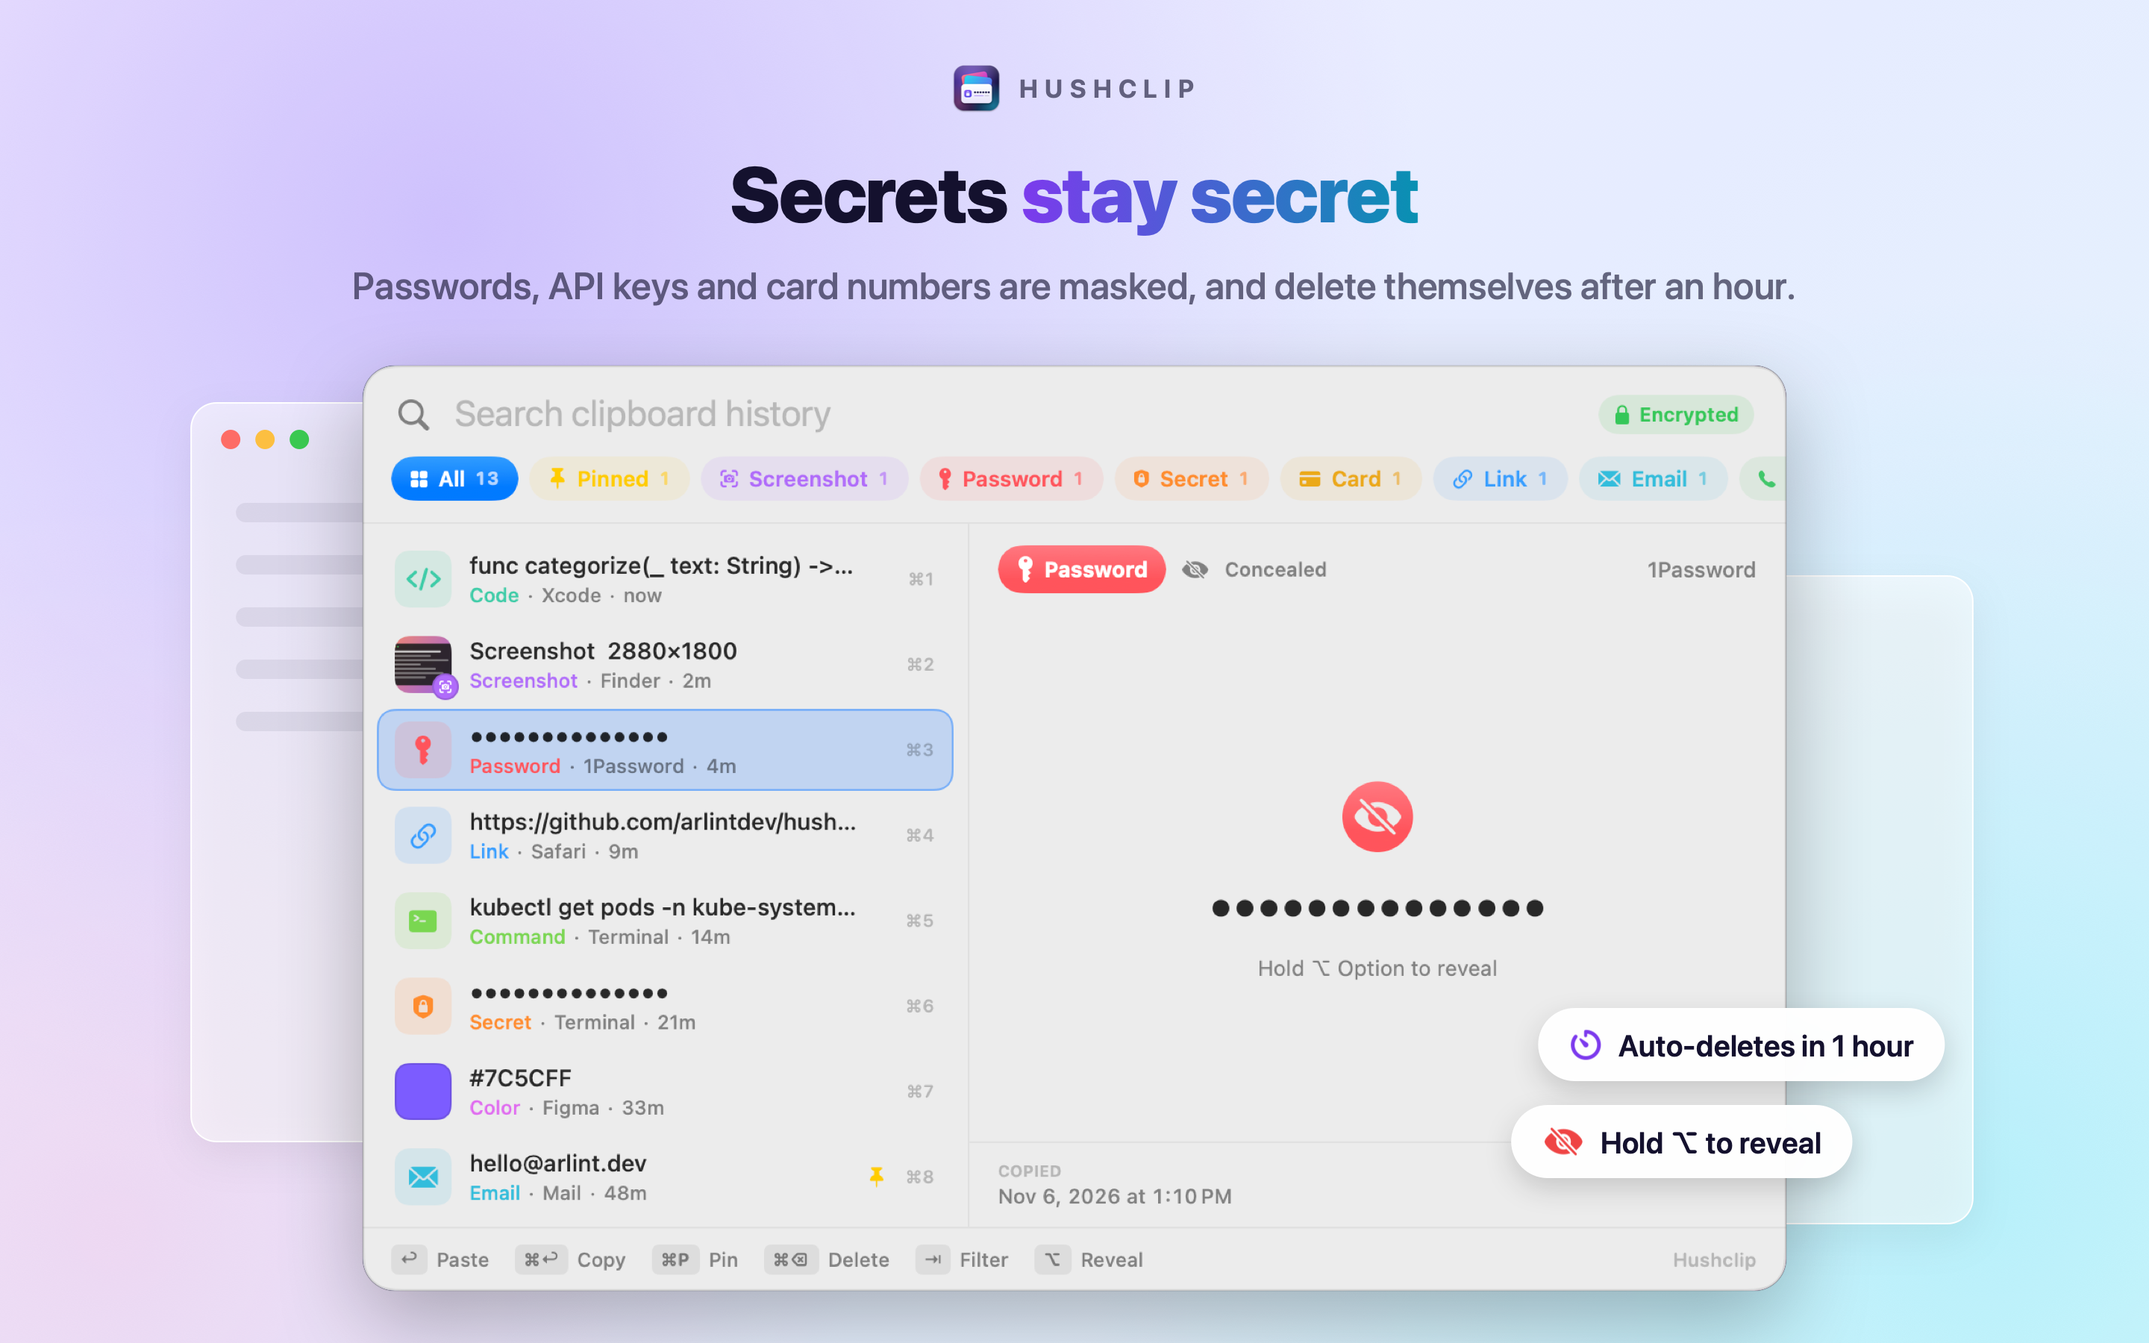
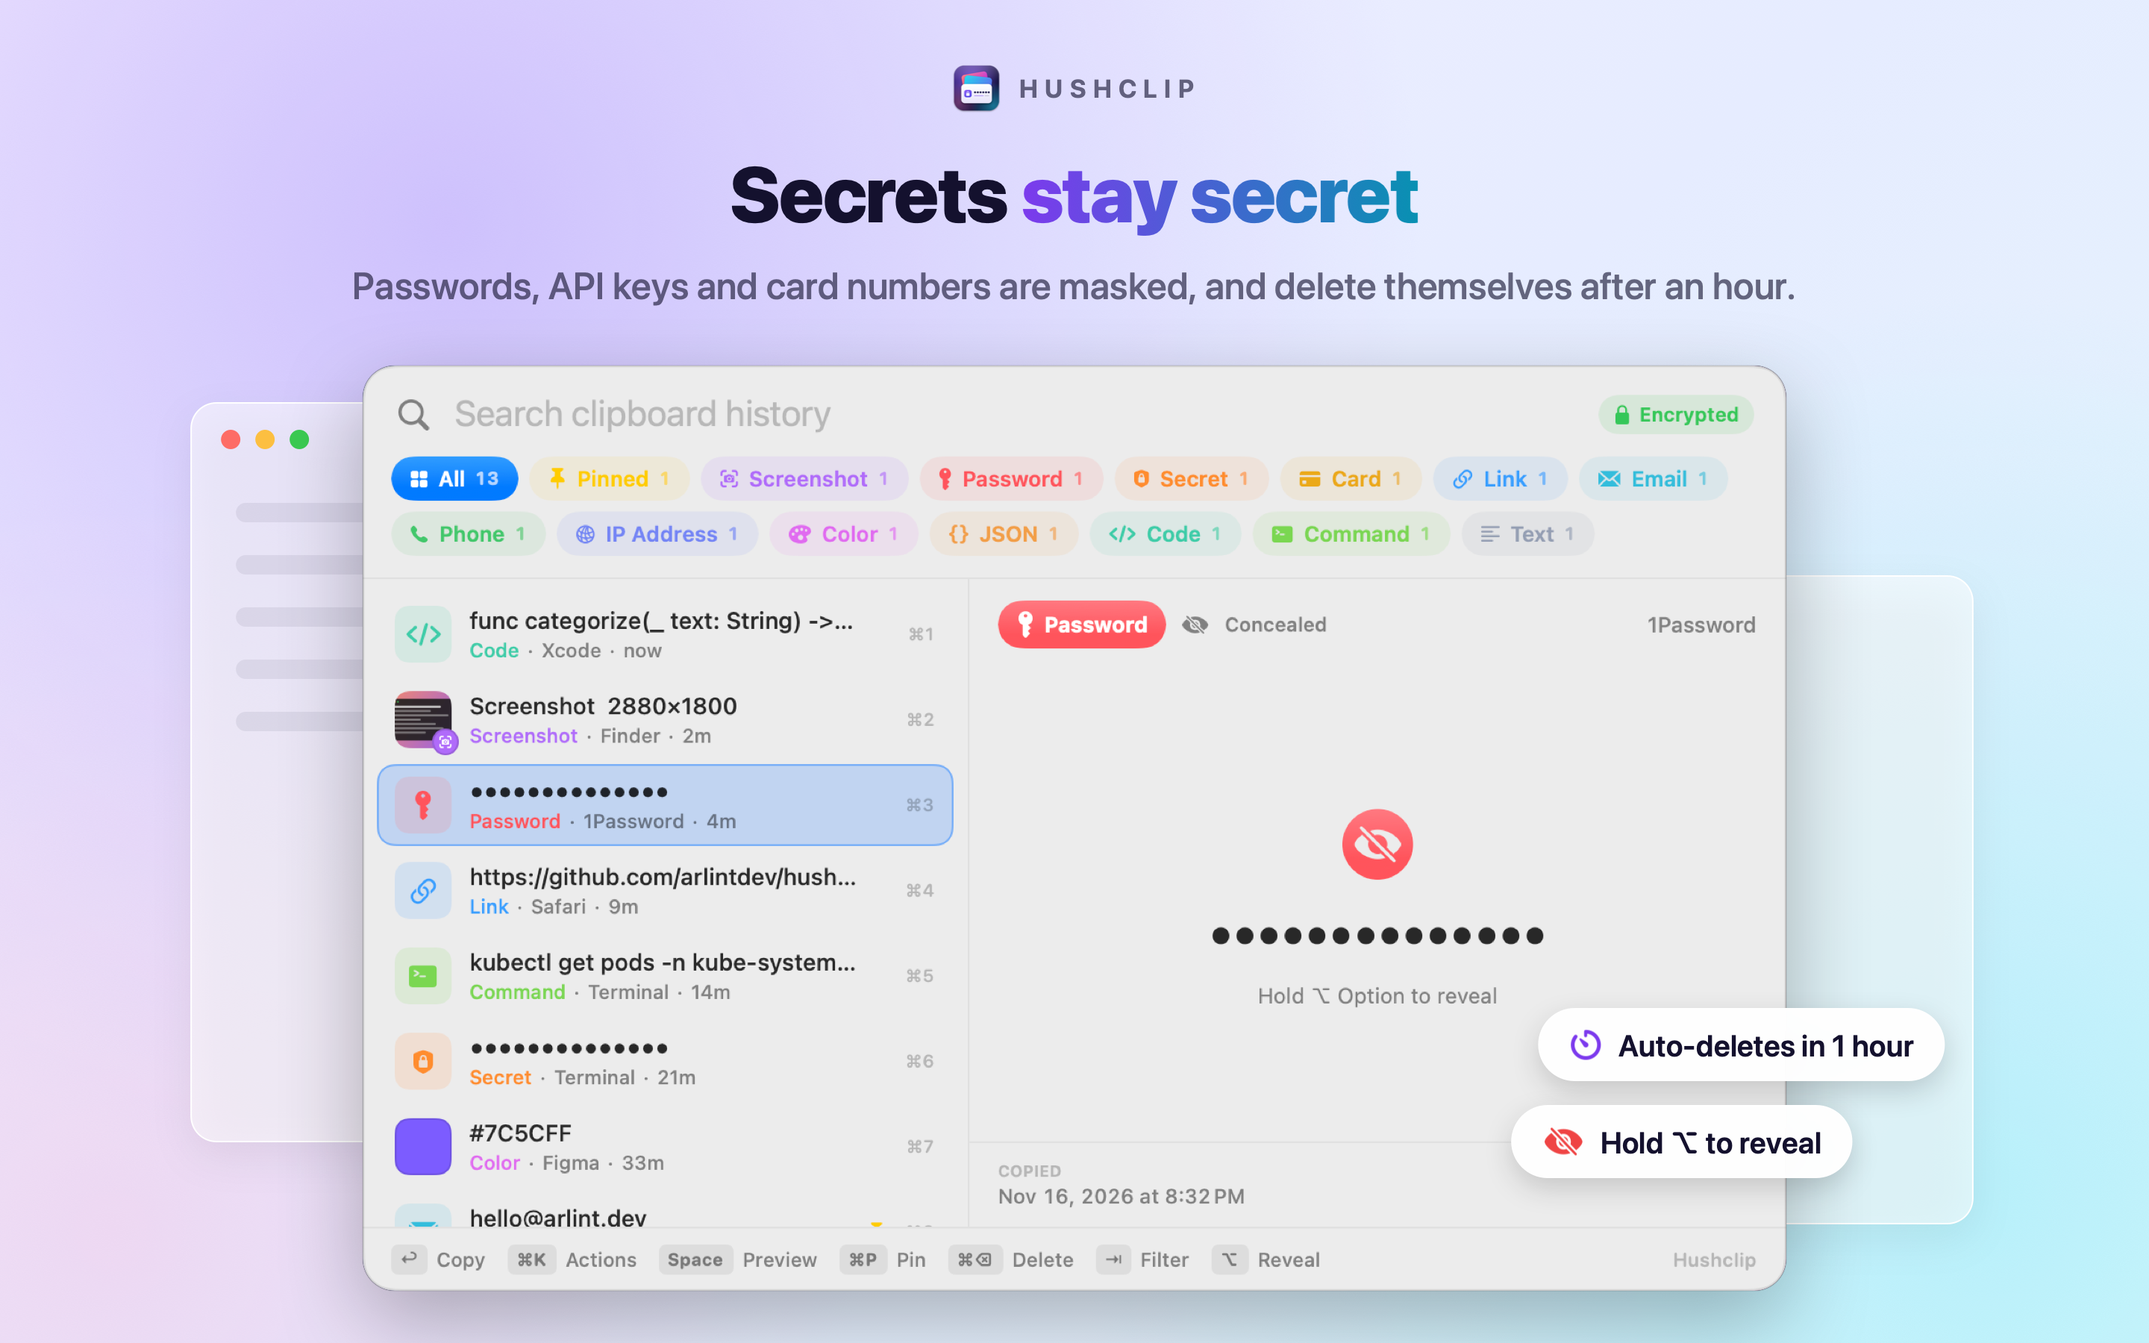
App Store build: copy instead of auto-paste (guideline 2.4.5)
App Review rejected 1.1.0 because posting ⌘V needs the Accessibility
permission, which is only allowed for accessibility features. The App
Store build (APPSTORE compilation condition in project.yml) no longer
compiles the event-posting code: choosing an item copies it and a
"Copied · Press ⌘V to paste" toast confirms it. Labels switch from
Paste to Copy. The direct-download build keeps auto-paste.

Also regenerates the store screenshots and updates the listing and
review notes to match.

diff --git a/Sources/Hushclip/OverlayView.swift b/Sources/Hushclip/OverlayView.swift
@@ -164,8 +164,10 @@ struct OverlayView: View {
 
     private var footer: some View {
         HStack(spacing: 12) {
-            KeyHint(keys: "↩", label: "Paste")
-            KeyHint(keys: "⌘↩", label: "Copy")
+            KeyHint(keys: "↩", label: Paster.verb)
+            if Paster.verb == "Paste" {
+                KeyHint(keys: "⌘↩", label: "Copy")
+            }
             KeyHint(keys: "⌘K", label: "Actions")
             KeyHint(keys: "Space", label: "Preview")
             KeyHint(keys: "⌘P", label: "Pin")
@@ -173,7 +175,7 @@ struct OverlayView: View {
             KeyHint(keys: "⇥", label: "Filter")
             KeyHint(keys: "⌥", label: "Reveal")
             Spacer()
-            if !model.accessibilityTrusted && Prefs.autoPaste {
+            if Paster.canAutoPaste && !model.accessibilityTrusted && Prefs.autoPaste {
                 Button {
                     Paster.openAccessibilitySettings()
                 } label: {
@@ -297,7 +299,9 @@ struct ItemListView: View {
                             .onTapGesture(count: 2) { model.perform(item, .paste) }
                             .simultaneousGesture(TapGesture().onEnded { model.selectedID = item.id })
                             .contextMenu {
-                                Button("Paste") { model.perform(item, .paste) }
+                                if Paster.verb == "Paste" {
+                                    Button("Paste") { model.perform(item, .paste) }
+                                }
                                 Button("Copy") { model.perform(item, .copy) }
                                 let actions = model.actions(for: item)
                                 if !actions.isEmpty {
@@ -306,7 +310,7 @@ struct ItemListView: View {
                                         Button {
                                             model.runAction(item, action)
                                         } label: {
-                                            Label(action.title, systemImage: action.symbol)
+                                            Label(action.displayTitle, systemImage: action.symbol)
                                         }
                                     }
                                     Divider()
@@ -650,7 +654,7 @@ struct ActionButton: View {
         Button(action: run) {
             HStack(spacing: 5) {
                 Image(systemName: action.symbol).font(.system(size: 10.5, weight: .bold))
-                Text(action.shortTitle).font(.system(size: 12, weight: .semibold))
+                Text(action.displayShortTitle).font(.system(size: 12, weight: .semibold))
                 if primary {
                     Text("⌘O")
                         .font(.system(size: 9.5, weight: .bold, design: .rounded))
@@ -671,7 +675,7 @@ struct ActionButton: View {
         }
         .buttonStyle(.plain)
         .onHover { hovering = $0 }
-        .help(action.detail.map { "\(action.title)\n\($0)" } ?? action.title)
+        .help(action.detail.map { "\(action.displayTitle)\n\($0)" } ?? action.displayTitle)
     }
 }
 
@@ -737,7 +741,7 @@ struct MetadataView: View {
             case .files:
                 entry("Files", "\(item.filePaths?.count ?? 0)")
             }
-            if item.useCount > 0 { entry("Pasted", "\(item.useCount)×") }
+            if item.useCount > 0 { entry("Used", "\(item.useCount)×") }
             Spacer()
         }
         .padding(.horizontal, 16)

diff --git a/Sources/Hushclip/Toast.swift b/Sources/Hushclip/Toast.swift
@@ -1,0 +1,82 @@
+import AppKit
+import SwiftUI
+
+/// A small HUD that confirms a copy ("Copied · press ⌘V to paste") and fades away.
+/// Shown when Hushclip copies instead of pasting: always in the Mac App Store build,
+/// and in the direct build when auto-paste is off or not yet allowed.
+@MainActor
+enum Toast {
+    private static var panel: NSPanel?
+    private static var hideWork: DispatchWorkItem?
+
+    static func copied(hint: Bool = true) {
+        show(title: "Copied", detail: hint ? "Press ⌘V to paste" : nil)
+    }
+
+    static func show(title: String, detail: String?) {
+        let panel = self.panel ?? makePanel()
+        self.panel = panel
+        let hosting = NSHostingView(rootView: ToastView(title: title, detail: detail))
+        let size = hosting.fittingSize
+        panel.contentView = hosting
+
+        let mouse = NSEvent.mouseLocation
+        let screen = NSScreen.screens.first { NSMouseInRect(mouse, $0.frame, false) } ?? NSScreen.main
+        if let frame = screen?.visibleFrame {
+            panel.setFrame(NSRect(x: frame.midX - size.width / 2, y: frame.minY + frame.height * 0.16,
+                                  width: size.width, height: size.height), display: false)
+        }
+        panel.alphaValue = 1
+        panel.orderFrontRegardless()
+
+        hideWork?.cancel()
+        let work = DispatchWorkItem {
+            NSAnimationContext.runAnimationGroup({ context in
+                context.duration = 0.35
+                panel.animator().alphaValue = 0
+            }, completionHandler: {
+                MainActor.assumeIsolated { if panel.alphaValue == 0 { panel.orderOut(nil) } }
+            })
+        }
+        hideWork = work
+        DispatchQueue.main.asyncAfter(deadline: .now() + 1.4, execute: work)
+    }
+
+    private static func makePanel() -> NSPanel {
+        let panel = NSPanel(contentRect: .zero, styleMask: [.nonactivatingPanel, .borderless],
+                            backing: .buffered, defer: true)
+        panel.level = .statusBar
+        panel.collectionBehavior = [.canJoinAllSpaces, .fullScreenAuxiliary, .transient, .ignoresCycle]
+        panel.isOpaque = false
+        panel.backgroundColor = .clear
+        panel.hasShadow = false
+        panel.ignoresMouseEvents = true
+        panel.hidesOnDeactivate = false
+        panel.isReleasedWhenClosed = false
+        return panel
+    }
+}
+
+private struct ToastView: View {
+    let title: String
+    let detail: String?
+
+    var body: some View {
+        HStack(spacing: 10) {
+            Image(systemName: "checkmark.circle.fill")
+                .font(.system(size: 18, weight: .semibold))
+                .foregroundStyle(.green)
+            Text(title).font(.system(size: 14, weight: .semibold))
+            if let detail {
+                Text(detail).font(.system(size: 13, weight: .medium)).foregroundStyle(.secondary)
+            }
+        }
+        .padding(.horizontal, 18)
+        .padding(.vertical, 11)
+        .background(.regularMaterial, in: Capsule())
+        .overlay(Capsule().strokeBorder(Color.primary.opacity(0.1)))
+        .shadow(color: .black.opacity(0.25), radius: 14, y: 6)
+        .padding(20) // room for the shadow
+        .fixedSize()
+    }
+}

diff --git a/Sources/Hushclip/Paster.swift b/Sources/Hushclip/Paster.swift
@@ -27,6 +27,24 @@ enum Paster {
         pb.setString(Bundle.main.bundleIdentifier ?? "dev.arlint.clipster", forType: PasteboardMonitor.sourceType)
     }
 
+    /// Whether this build can press ⌘V for the user.
+    ///
+    /// The Mac App Store build (compiled with `APPSTORE`, see project.yml) can't: posting
+    /// keystrokes needs the Accessibility permission, which App Review only allows for
+    /// accessibility features (guideline 2.4.5). That build copies the item and the user
+    /// pastes; the code that posts events isn't compiled into it at all.
+    #if APPSTORE
+    static let canAutoPaste = false
+    #else
+    static let canAutoPaste = true
+    #endif
+
+    #if APPSTORE
+    static var isTrusted: Bool { false }
+    static func promptForAccessibility() {}
+    static func openAccessibilitySettings() {}
+    static func sendPasteKeystroke() {}
+    #else
     /// Whether Hushclip may post the ⌘V keystroke. Uses the post-event permission API,
     /// which (unlike the AXUIElement APIs) works inside the App Sandbox. It is shown to
     /// the user under Privacy & Security → Accessibility.
@@ -53,5 +71,21 @@ enum Paster {
         up?.flags = .maskCommand
         down?.post(tap: .cghidEventTap)
         up?.post(tap: .cghidEventTap)
+    }
+    #endif
+
+    /// What choosing an item does, for labels: "Paste" when Hushclip pastes, "Copy" when it copies.
+    static var verb: String { canAutoPaste && Prefs.autoPaste ? "Paste" : "Copy" }
+}
+
+@MainActor
+extension QuickAction {
+    /// The title as shown: "Paste as HEX" becomes "Copy as HEX" when this build copies.
+    var displayTitle: String { Self.relabel(title) }
+    var displayShortTitle: String { Self.relabel(shortTitle) }
+
+    private static func relabel(_ s: String) -> String {
+        guard Paster.verb == "Copy", s.hasPrefix("Paste") else { return s }
+        return "Copy" + s.dropFirst(5)
     }
 }

diff --git a/Sources/Hushclip/OverlayController.swift b/Sources/Hushclip/OverlayController.swift
@@ -208,12 +208,18 @@ final class OverlayController {
         let menu = NSMenu()
         menu.autoenablesItems = false
 
-        menu.addItem(BlockMenuItem("Paste", symbol: "doc.on.clipboard", key: "\r", modifiers: []) {
-            model.perform(item, .paste)
-        })
-        menu.addItem(BlockMenuItem("Copy", symbol: "square.on.square", key: "\r", modifiers: .command) {
-            model.perform(item, .copy)
-        })
+        if Paster.verb == "Paste" {
+            menu.addItem(BlockMenuItem("Paste", symbol: "doc.on.clipboard", key: "\r", modifiers: []) {
+                model.perform(item, .paste)
+            })
+            menu.addItem(BlockMenuItem("Copy", symbol: "square.on.square", key: "\r", modifiers: .command) {
+                model.perform(item, .copy)
+            })
+        } else {
+            menu.addItem(BlockMenuItem("Copy", symbol: "doc.on.clipboard", key: "\r", modifiers: []) {
+                model.perform(item, .paste)
+            })
+        }
 
         if model.canEnlarge(item) {
             menu.addItem(BlockMenuItem("Quick Look", symbol: "eye", key: "y", modifiers: .command) {
@@ -226,7 +232,7 @@ final class OverlayController {
             menu.addItem(.separator())
             let primary = model.primaryAction(for: item)?.id
             for action in actions {
-                let entry = BlockMenuItem(action.title, symbol: action.symbol,
+                let entry = BlockMenuItem(action.displayTitle, symbol: action.symbol,
                                           key: action.id == primary ? "o" : "", modifiers: .command) {
                     model.runAction(item, action)
                 }

diff --git a/Sources/Hushclip/AppDelegate.swift b/Sources/Hushclip/AppDelegate.swift
@@ -65,19 +65,24 @@ final class AppDelegate: NSObject, NSApplicationDelegate, NSMenuDelegate {
         monitor.ignoreCurrentContents()
         store.markUsed(item.id)
         overlay.hide()
-        if action == .paste { autoPaste() }
+        if action == .paste { autoPaste() } else { Toast.copied() }
     }
 
-    /// Presses ⌘V in the app the user was in, if auto-paste is on and allowed.
+    /// Presses ⌘V in the app the user was in, if this build can, auto-paste is on and it's
+    /// allowed. Otherwise the item is on the clipboard: say so.
     private func autoPaste() {
-        guard Prefs.autoPaste else { return }
-        if Paster.isTrusted {
-            // Give the previous app a moment to regain key focus.
-            DispatchQueue.main.asyncAfter(deadline: .now() + 0.06) { Paster.sendPasteKeystroke() }
-        } else if !Prefs.askedAccessibility {
-            Prefs.askedAccessibility = true
-            Paster.promptForAccessibility()
+        if Paster.canAutoPaste && Prefs.autoPaste {
+            if Paster.isTrusted {
+                // Give the previous app a moment to regain key focus.
+                DispatchQueue.main.asyncAfter(deadline: .now() + 0.06) { Paster.sendPasteKeystroke() }
+                return
+            }
+            if !Prefs.askedAccessibility {
+                Prefs.askedAccessibility = true
+                Paster.promptForAccessibility()
+            }
         }
+        Toast.copied()
     }
 
     // MARK: - Quick actions

diff --git a/Scripts/make-appstore-screenshots.swift b/Scripts/make-appstore-screenshots.swift
@@ -260,10 +260,10 @@ let dark = Theme(dark: true), light = Theme(dark: false)
 save("1-overview") {
     background(dark)
     header(dark, title: "Everything you copied, ", accent: "one shortcut away",
-           subtitle: "Press ⌘⇧V anywhere. Search, preview and paste straight into the app you're using.")
+           subtitle: "Press ⌘⇧V anywhere. Search, preview, and copy it back with one key.")
     let r = overlay(dark, ["--select", "0"])
     pill(dark, "command", "Opens from any app", tint: 0xA78BFA, center: NSPoint(x: r.maxX - 60, y: r.minY + 470))
-    pill(dark, "return", "Return pastes it", tint: 0x67E8F9, center: NSPoint(x: r.maxX - 10, y: r.minY + 330))
+    pill(dark, "return", "Return copies it", tint: 0x67E8F9, center: NSPoint(x: r.maxX - 10, y: r.minY + 330))
 }
 
 save("2-categories") {

diff --git a/Sources/Hushclip/SettingsView.swift b/Sources/Hushclip/SettingsView.swift
@@ -37,8 +37,10 @@ struct SettingsView: View {
                         .padding(.horizontal, 8).padding(.vertical, 2)
                         .background(RoundedRectangle(cornerRadius: 5).fill(Color.primary.opacity(0.08)))
                 }
-                Toggle("Paste into the active app after choosing", isOn: $autoPaste)
-                if autoPaste && !trusted {
+                if Paster.canAutoPaste {
+                    Toggle("Paste into the active app after choosing", isOn: $autoPaste)
+                }
+                if Paster.canAutoPaste && autoPaste && !trusted {
                     HStack {
                         Image(systemName: "exclamationmark.triangle.fill").foregroundStyle(.orange)
                         Text("Needs Accessibility permission to press ⌘V for you.")

diff --git a/README.md b/README.md
@@ -83,9 +83,9 @@ The rules live in [`Sources/HushclipCore/Categorizer.swift`](Sources/HushclipCor
 2. Drag **Hushclip** into **Applications** and open it. A clipboard icon appears in the menu bar.
 3. Press <kbd>⌘</kbd><kbd>⇧</kbd><kbd>V</kbd>.
 
-The two versions are the same app. The App Store version runs in the App Sandbox, so its data lives in `~/Library/Containers/dev.arlint.clipster/` instead of the folder below.
+The two versions are the same app with one difference: **the App Store version doesn't auto-paste.** Apple only lets App Store apps use the Accessibility permission for accessibility features (guideline 2.4.5), so choosing an item copies it and you press <kbd>⌘</kbd><kbd>V</kbd>. The App Store version also runs in the App Sandbox, so its data lives in `~/Library/Containers/dev.arlint.clipster/` instead of the folder below.
 
-**Auto-paste** needs Accessibility permission so Hushclip can press <kbd>⌘</kbd><kbd>V</kbd> for you. Hushclip asks the first time you paste. Until you grant it, choosing an item copies it and you paste yourself. You can grant it under **System Settings → Privacy & Security → Accessibility**.
+**Auto-paste** (direct download only) needs Accessibility permission so Hushclip can press <kbd>⌘</kbd><kbd>V</kbd> for you. Hushclip asks the first time you paste. Until you grant it, choosing an item copies it and you paste yourself. You can grant it under **System Settings → Privacy & Security → Accessibility**.
 
 > Note: ⌘⇧V is a global shortcut, so it replaces "Paste and Match Style" in apps that use it. Hushclip always pastes plain text for text items, so you get the same result.
 
@@ -155,7 +155,7 @@ Releases are **signed and notarized** when these repository secrets are set: `MA
 
 ### Mac App Store
 
-The App Store build is made from [`project.yml`](project.yml) (run `xcodegen generate` after changing it), which adds the App Sandbox entitlement and an asset-catalog icon:
+The App Store build is made from [`project.yml`](project.yml) (run `xcodegen generate` after changing it), which adds the App Sandbox entitlement, an asset-catalog icon and the `APPSTORE` compilation condition (no auto-paste, so no Accessibility permission). To try that variant with SwiftPM: `swift build --build-path .build-appstore -Xswiftc -DAPPSTORE`.
 
 ```bash
 xcodebuild archive -project Hushclip.xcodeproj -scheme Hushclip -archivePath build/Hushclip.xcarchive -allowProvisioningUpdates
